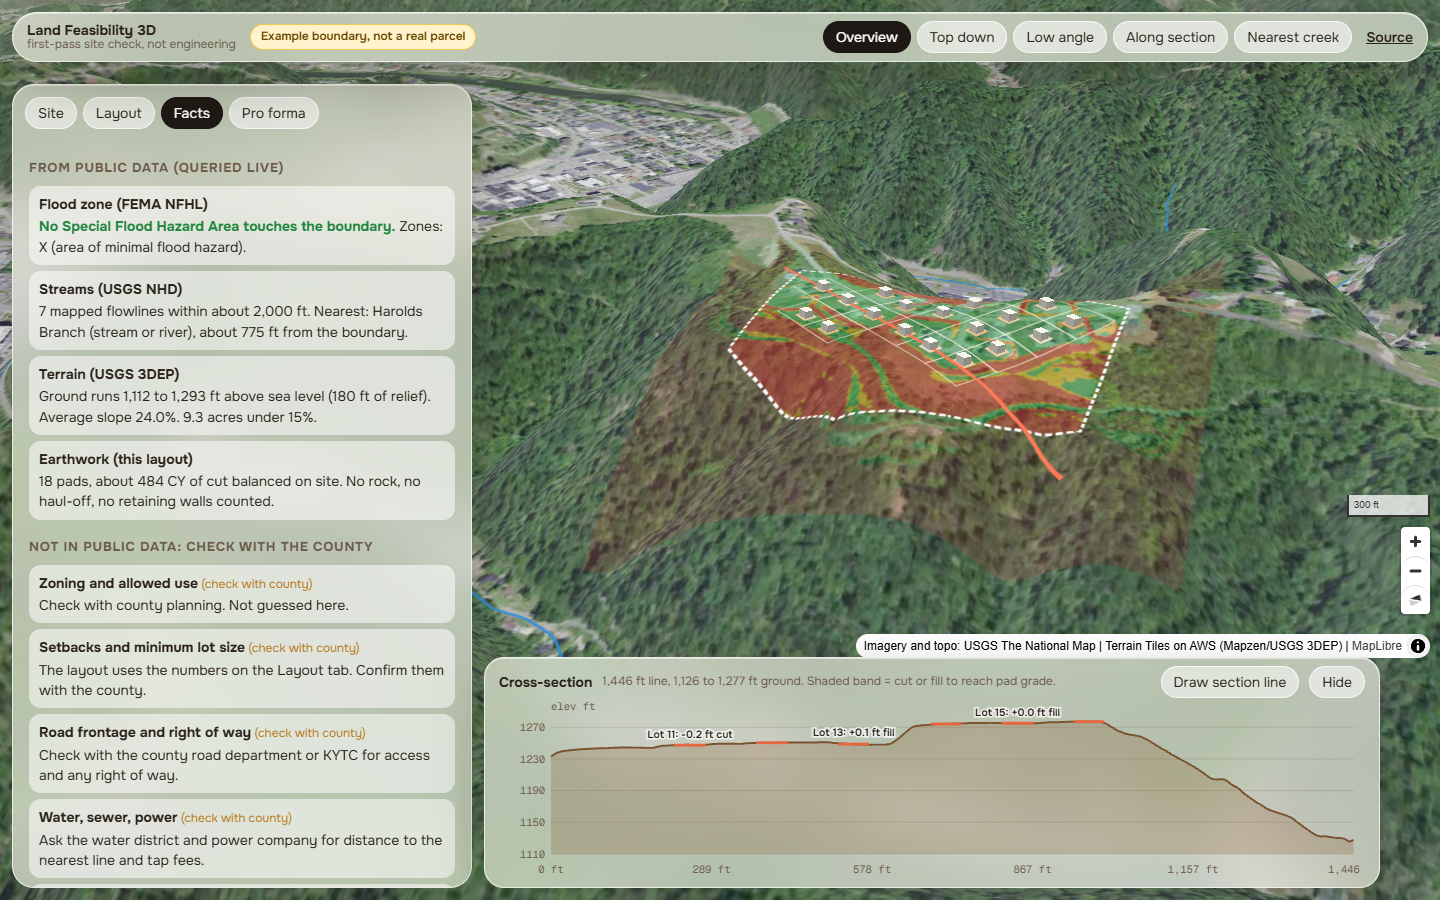
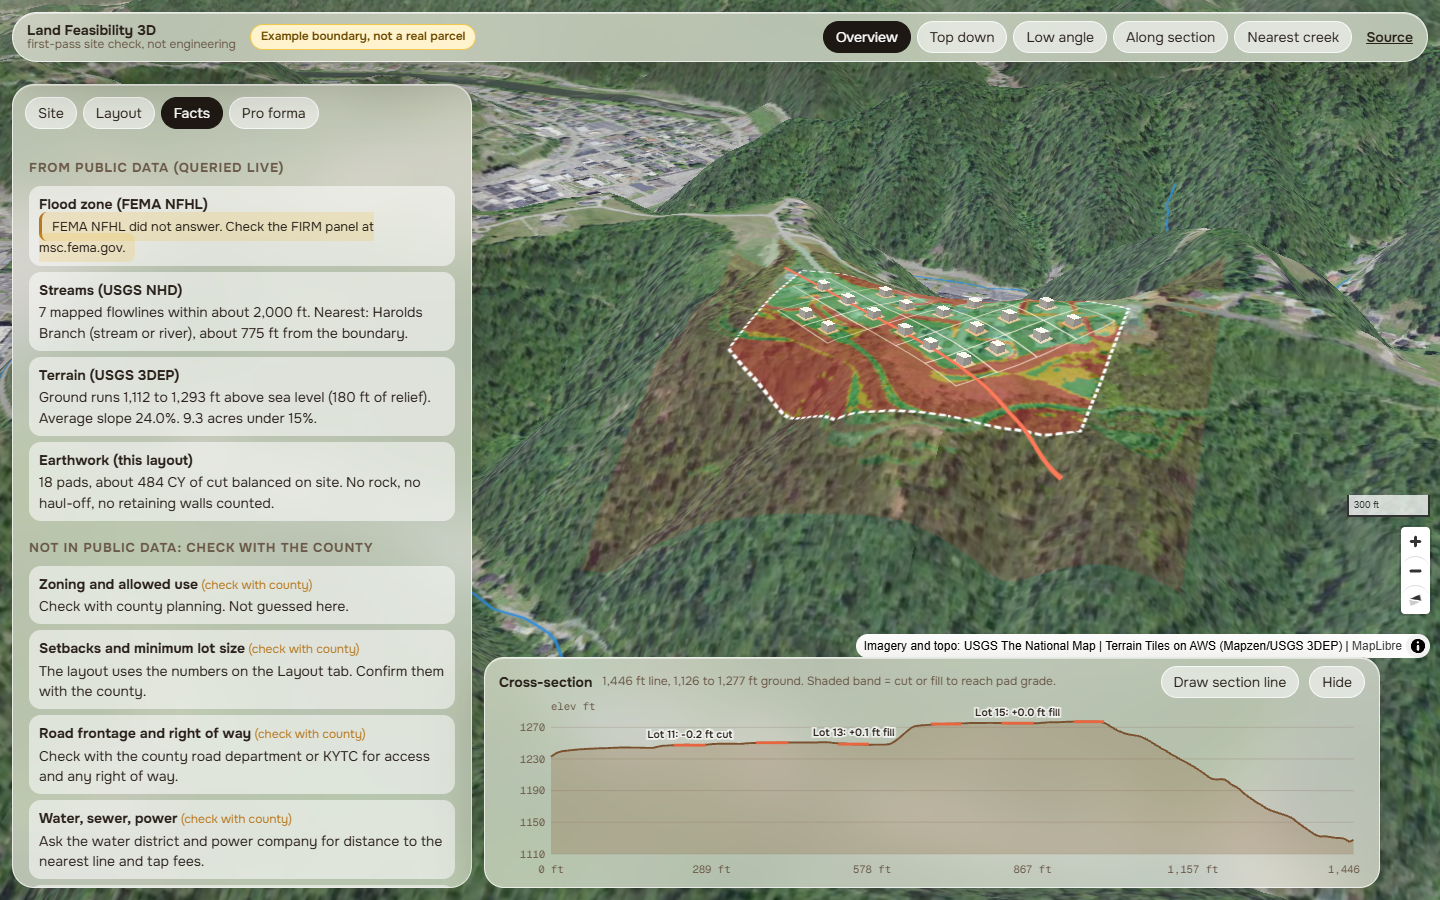
Retry FEMA and NHD once; block-style service warnings; live screenshots

diff --git a/src/main.ts b/src/main.ts
@@ -419,7 +419,15 @@ function factsPending() {
 
 async function loadFacts(run: number) {
   const [sw, ne] = bboxOf(state.parcel, 600)
-  const [fz, st] = await Promise.allSettled([floodZones(state.parcel), streamsNear(sw, ne)])
+  const retry = async <T,>(f: () => Promise<T>): Promise<T> => {
+    try {
+      return await f()
+    } catch {
+      await new Promise((r) => setTimeout(r, 1500))
+      return f()
+    }
+  }
+  const [fz, st] = await Promise.allSettled([retry(() => floodZones(state.parcel)), retry(() => streamsNear(sw, ne))])
   if (run !== state.run) return
   flood = fz.status === 'fulfilled' ? fz.value : 'error'
   if (st.status === 'fulfilled') {

diff --git a/src/style.css b/src/style.css
@@ -473,3 +473,7 @@ svg .lbl {
 .plan-btns {
   margin: 6px 0 4px;
 }
+.facts .warnline {
+  display: block;
+  margin-top: 2px;
+}
